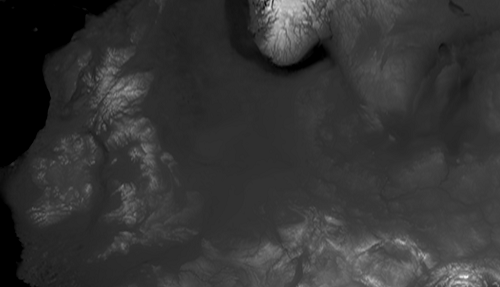
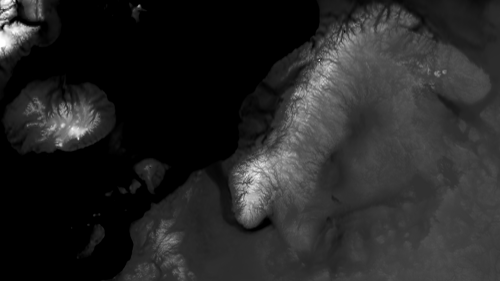
fix: restore Europe North preset with a northern-Europe heightmap
The id-11 precreated heightmap key was renamed from "europe-north" to
"north-sea-region" in #1493, but the image file stayed europe-north.png.
Both the selector thumbnail and map generation request
./heightmaps/north-sea-region.png (via ./heightmaps/${id}.png), which
does not exist, so the preset shows a broken image and fails to generate.

Restore the "Europe North" name/key and swap in a heightmap that covers
northern Europe (Scandinavia + Iceland), which also fixes the broken
image path.

diff --git a/public/config/precreated-heightmaps.js b/public/config/precreated-heightmaps.js
@@ -12,7 +12,7 @@ const precreatedHeightmaps = {
   "europe-accented": {id: 8, name: "Europe Accented"},
   "europe-and-central-asia": {id: 9, name: "Europe and Central Asia"},
   "europe-central": {id: 10, name: "Europe Central"},
-  "north-sea-region": {id: 11, name: "North Sea Region"},
+  "europe-north": {id: 11, name: "Europe North"},
   greenland: {id: 12, name: "Greenland"},
   hellenica: {id: 13, name: "Hellenica"},
   iceland: {id: 14, name: "Iceland"},

diff --git a/public/main.js b/public/main.js
@@ -888,7 +888,7 @@ function defineMapSize() {
     if (template === "europe-accented") return [14, 22, 44.8];
     if (template === "europe-and-central-asia") return [25, 10, 39.5];
     if (template === "europe-central") return [11, 22, 46.4];
-    if (template === "north-sea-region") return [7, 18, 48.9];
+    if (template === "europe-north") return [7, 18, 48.9];
     if (template === "greenland") return [22, 7, 55.8];
     if (template === "hellenica") return [8, 27, 43.5];
     if (template === "iceland") return [2, 15, 55.3];